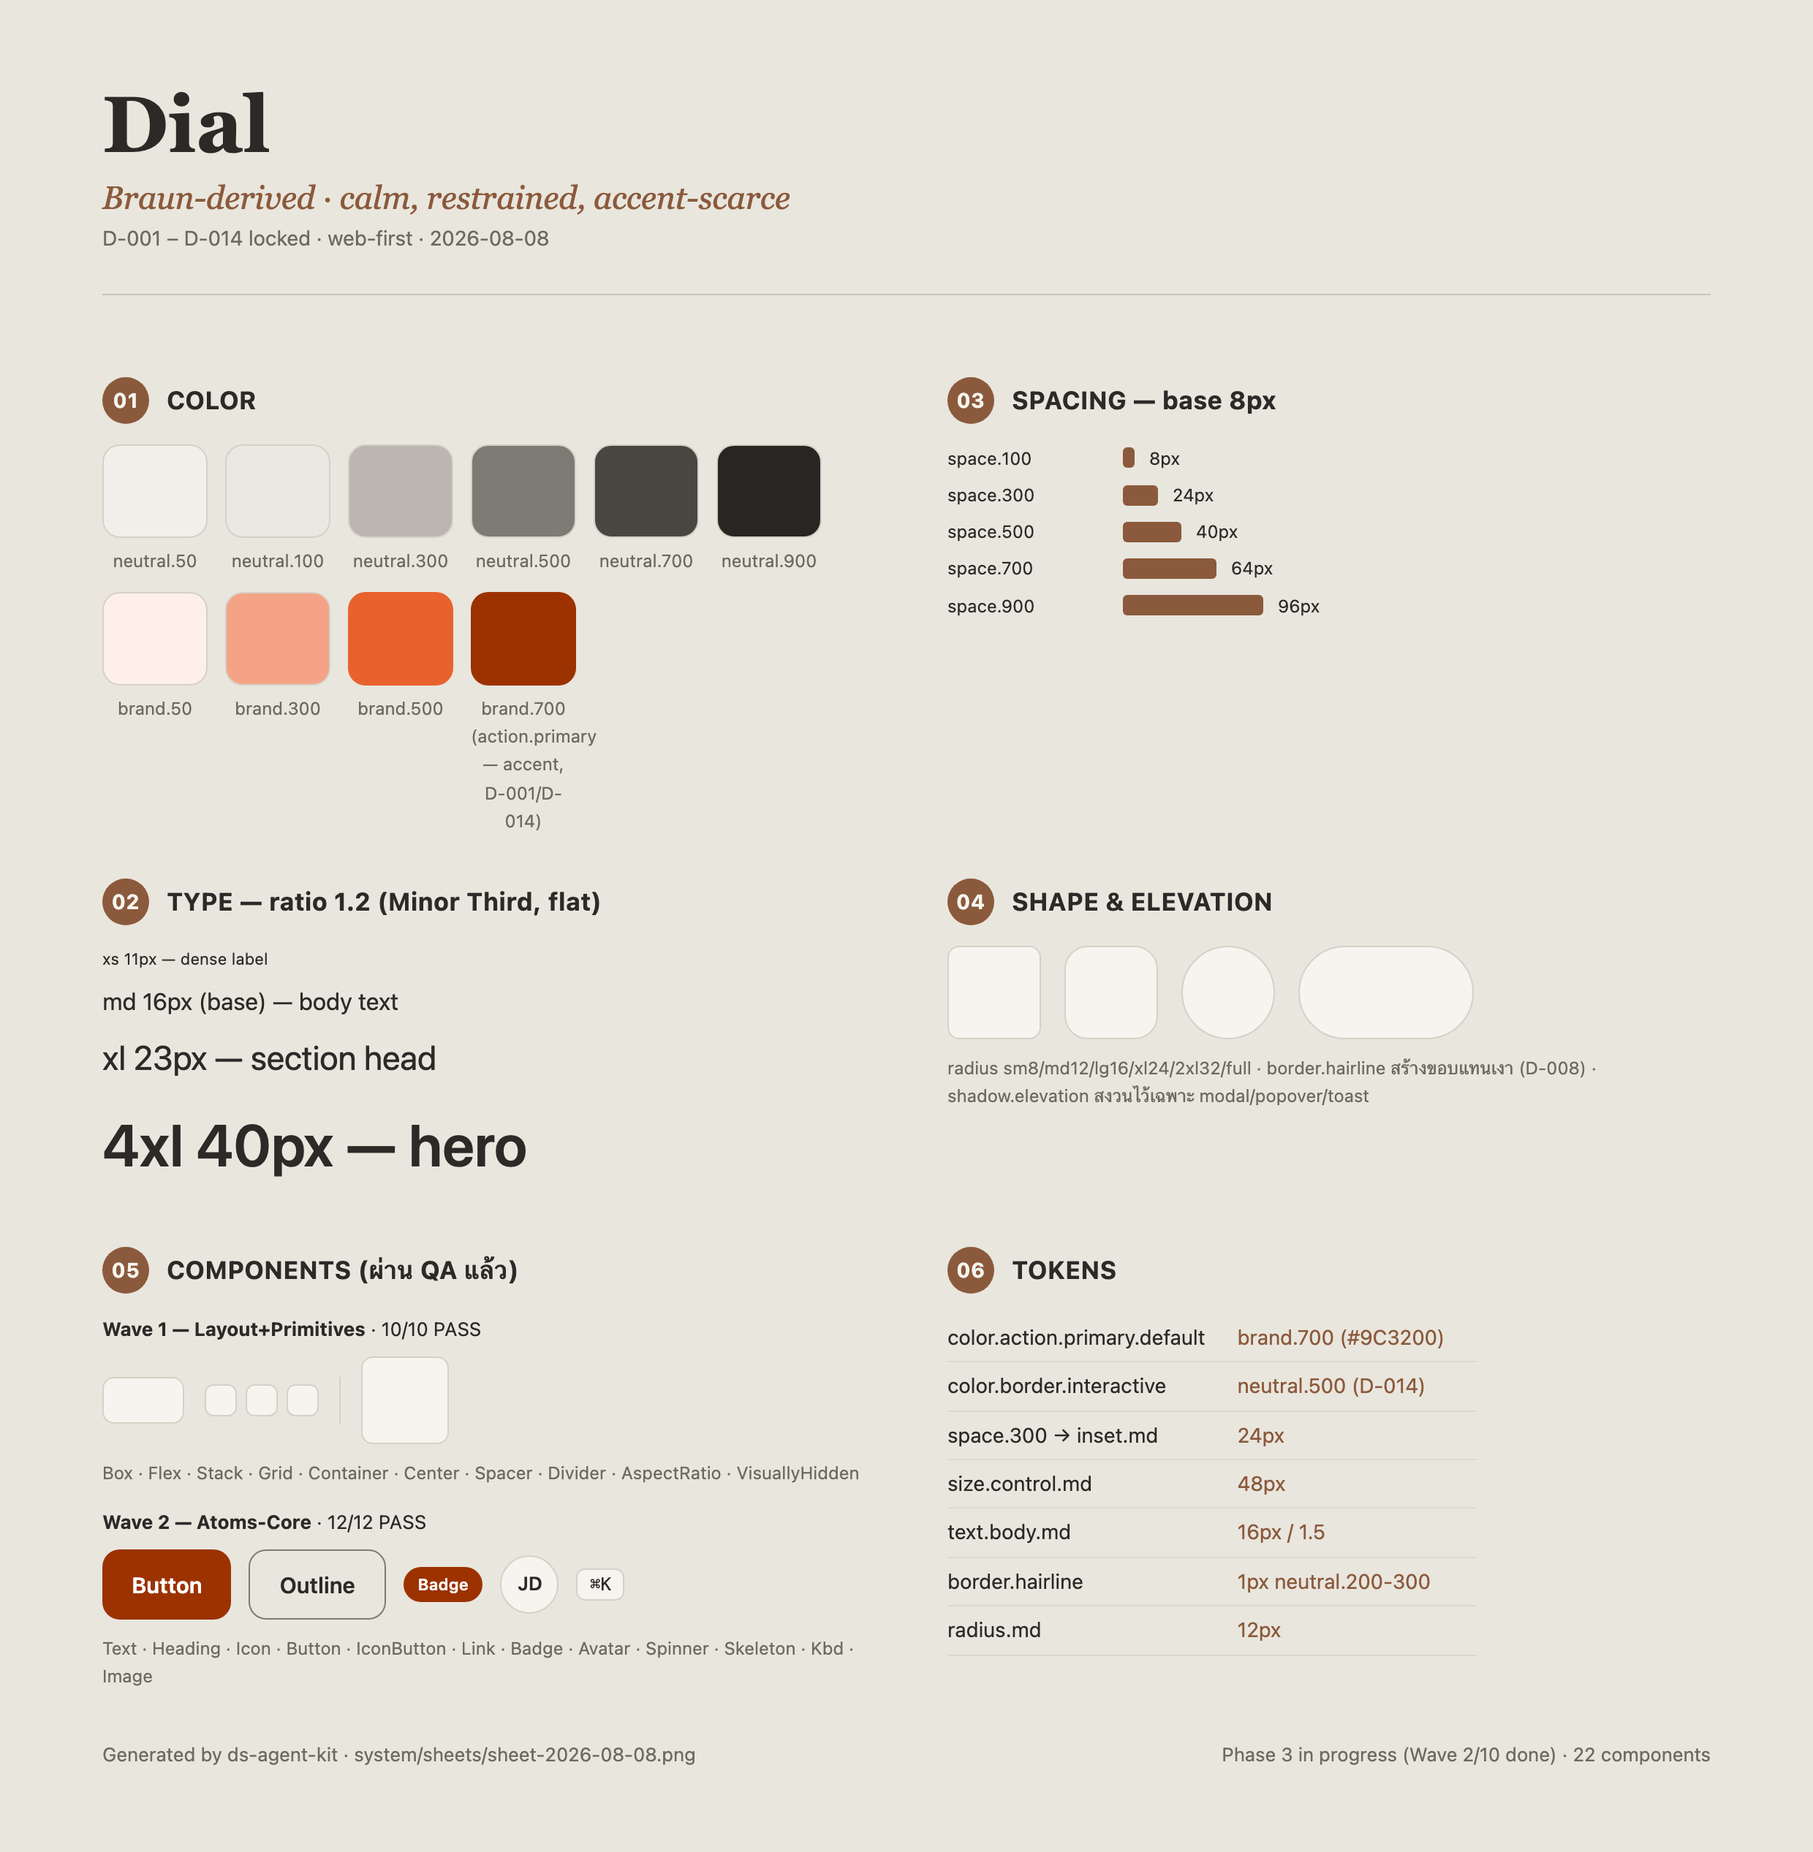
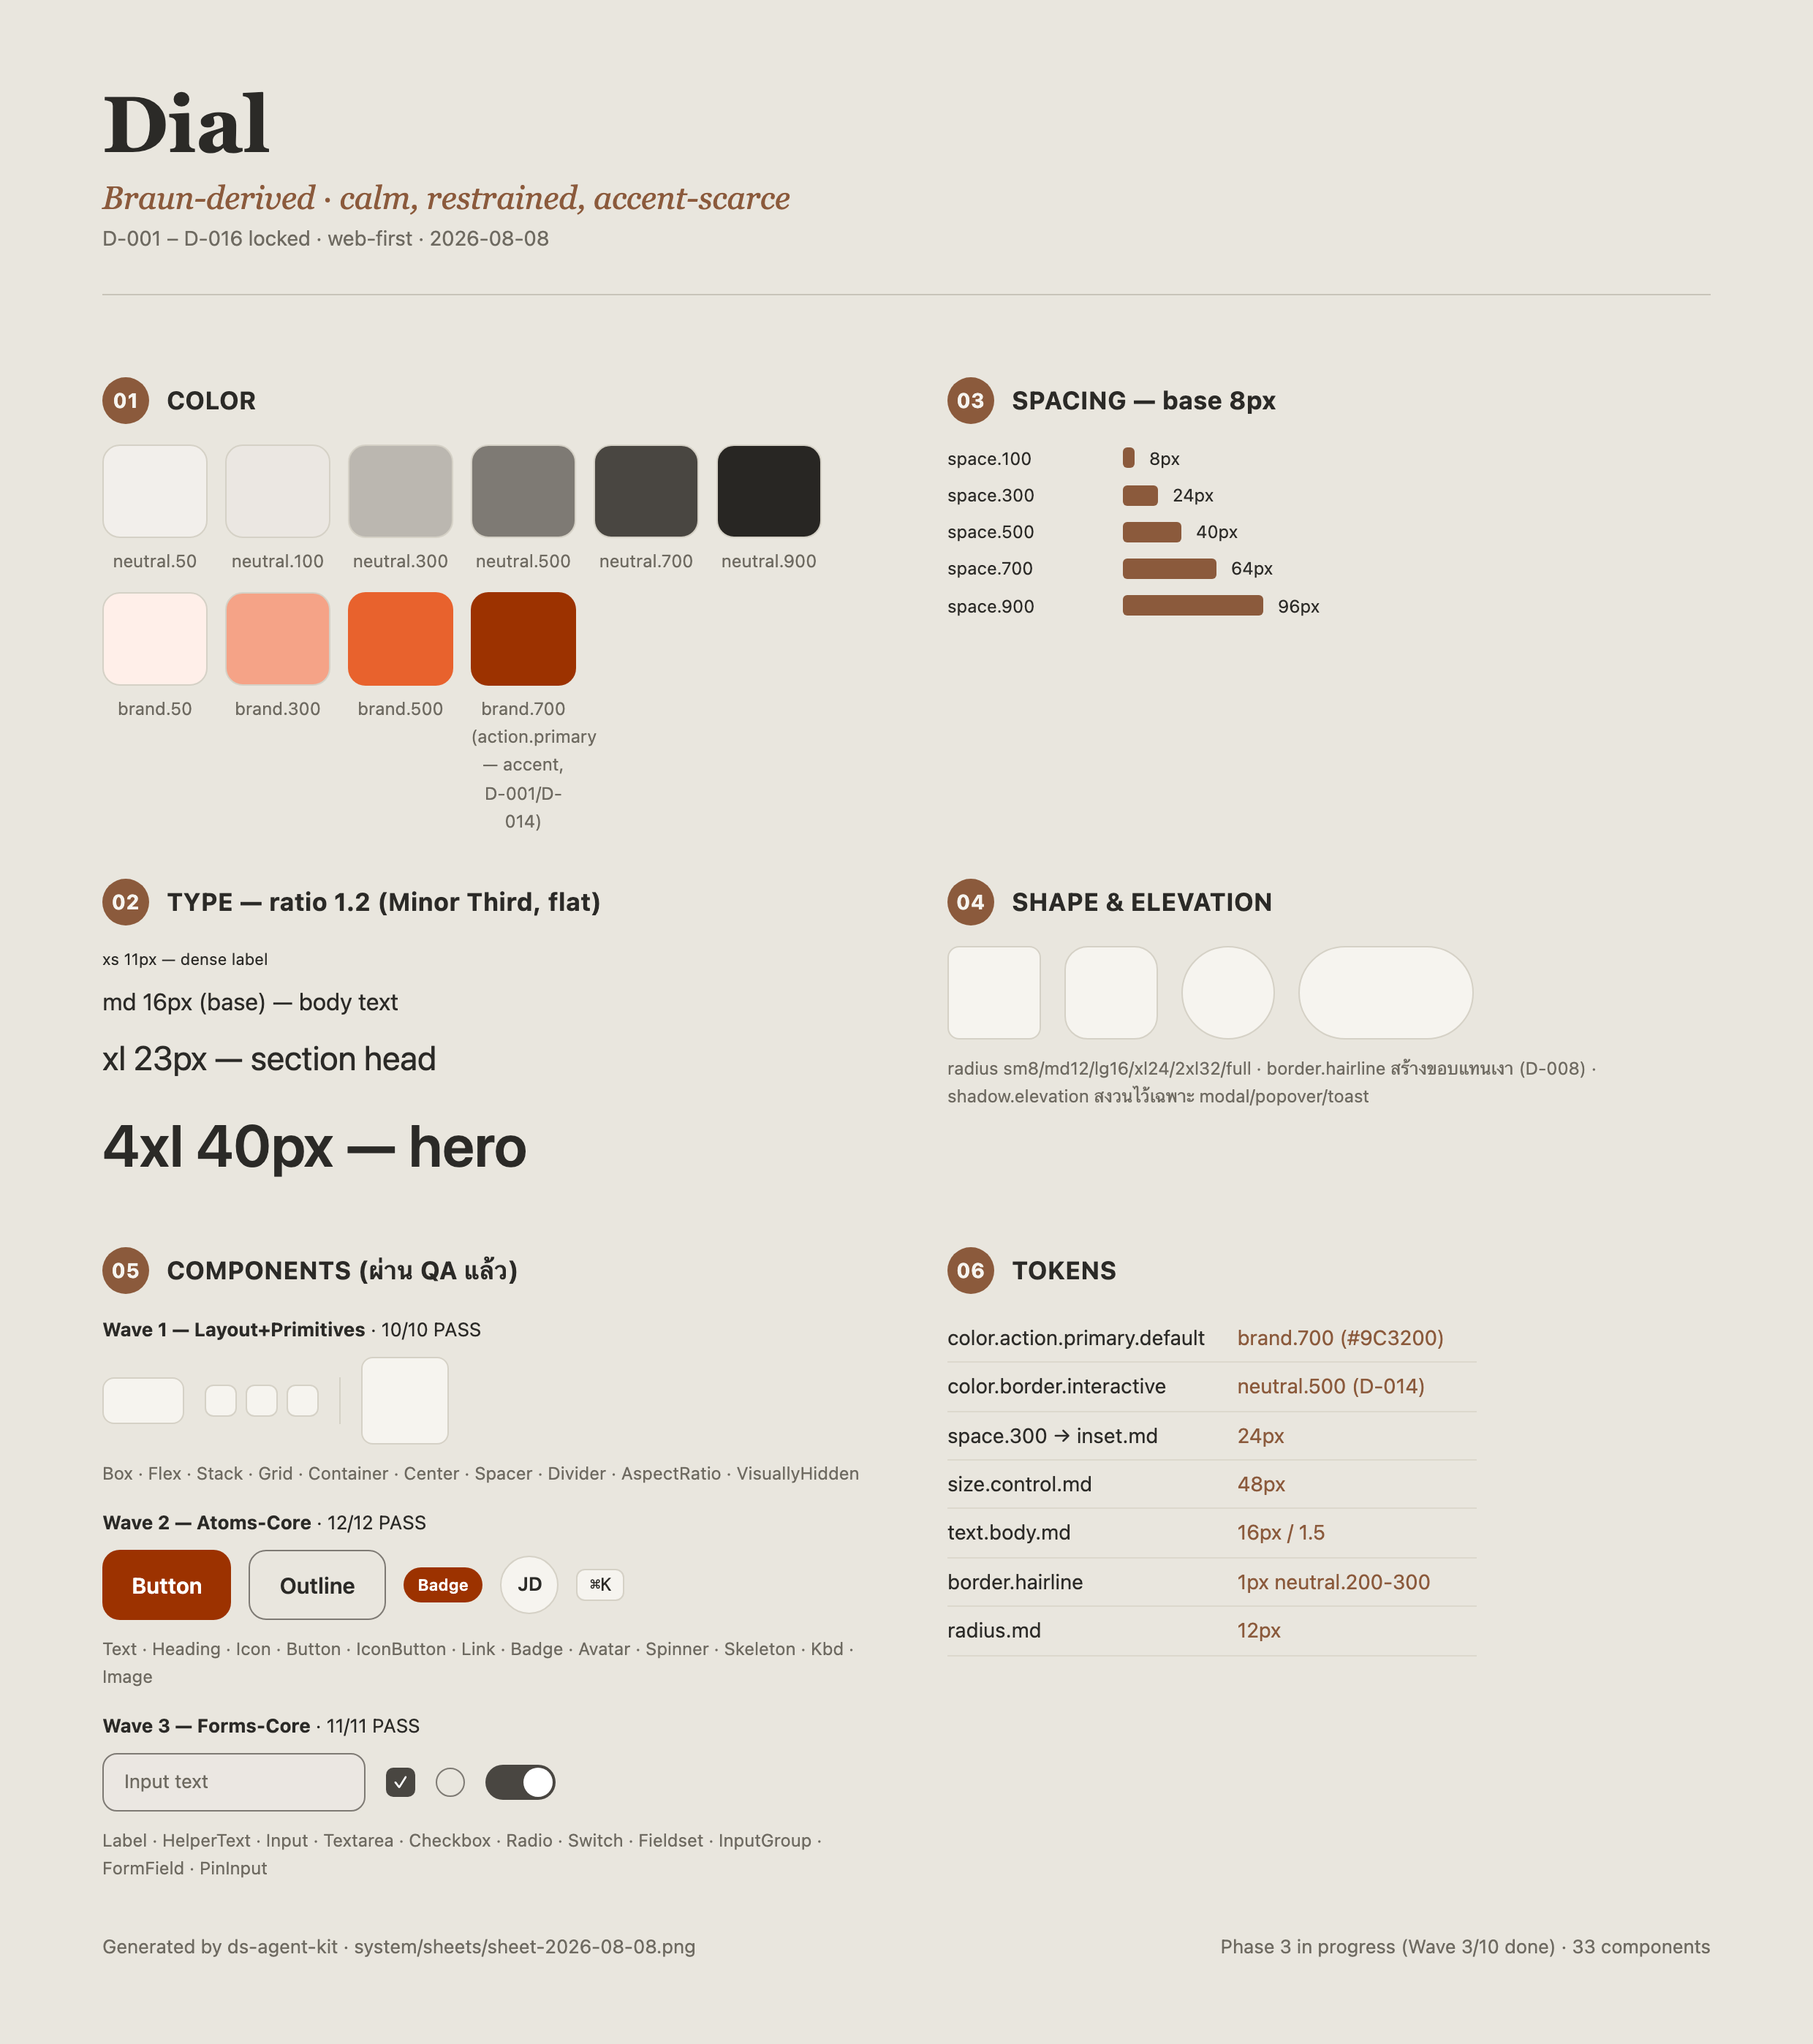
docs: refresh System Sheet with Wave 3 preview, close STATE.md loop
Sheet now shows Wave 3 (Input/Checkbox/Radio/Switch) with the fixed thumb
travel and hit-area visible. Archived Wave 2-only snapshot per no-delete rule.

diff --git a/apps/sheet/template.html b/apps/sheet/template.html
@@ -26,7 +26,7 @@ footer{display:flex;justify-content:space-between;color:var(--sub);font-size:13p
 <!-- AGENT: เติมข้อมูลจริงจาก system/DECISIONS.md + packages/tokens/build เท่านั้น -->
 <h1>Dial</h1>
 <div class="tag">Braun-derived · calm, restrained, accent-scarce</div>
-<div class="meta">D-001 – D-014 locked · web-first · 2026-08-08</div>
+<div class="meta">D-001 – D-016 locked · web-first · 2026-08-08</div>
 <hr>
 <div class="grid">
 <section><h2><i>01</i>COLOR</h2><div class="sw">
@@ -84,7 +84,15 @@ footer{display:flex;justify-content:space-between;color:var(--sub);font-size:13p
   <div style="width:40px;height:40px;border-radius:50%;background:var(--card);border:1px solid #d5d1c6;display:inline-flex;align-items:center;justify-content:center;font-size:13px;font-weight:600">JD</div>
   <kbd style="border:1px solid #d5d1c6;border-radius:6px;padding:3px 8px;font:12px ui-monospace,monospace;background:var(--card)">⌘K</kbd>
 </div>
-<div style="font-size:12px;color:var(--sub)">Text · Heading · Icon · Button · IconButton · Link · Badge · Avatar · Spinner · Skeleton · Kbd · Image</div>
+<div style="font-size:12px;color:var(--sub);margin-bottom:14px">Text · Heading · Icon · Button · IconButton · Link · Badge · Avatar · Spinner · Skeleton · Kbd · Image</div>
+<div style="font-size:13px;margin-bottom:8px"><b>Wave 3 — Forms-Core</b> · 11/11 PASS</div>
+<div style="display:flex;gap:14px;align-items:center;margin-bottom:10px;flex-wrap:wrap">
+  <div style="height:40px;min-inline-size:180px;display:inline-flex;align-items:center;padding-inline:14px;background:#ebe7e2;border:1px solid #7e7a74;border-radius:10px;font-size:13px;color:var(--sub)">Input text</div>
+  <div style="width:20px;height:20px;background:#494641;border-radius:5px;display:inline-flex;align-items:center;justify-content:center;color:#fff;font-size:12px">✓</div>
+  <div style="width:20px;height:20px;border:1px solid #7e7a74;border-radius:50%"></div>
+  <div style="width:48px;height:24px;background:#494641;border-radius:99px;position:relative"><div style="position:absolute;inset-inline-end:2px;top:2px;width:20px;height:20px;background:#fff;border-radius:50%"></div></div>
+</div>
+<div style="font-size:12px;color:var(--sub)">Label · HelperText · Input · Textarea · Checkbox · Radio · Switch · Fieldset · InputGroup · FormField · PinInput</div>
 </section>
 <section><h2><i>06</i>TOKENS</h2><table>
 <tr><td>color.action.primary.default</td><td>brand.700 (#9C3200)</td></tr>
@@ -96,5 +104,5 @@ footer{display:flex;justify-content:space-between;color:var(--sub);font-size:13p
 <tr><td>radius.md</td><td>12px</td></tr>
 </table></section>
 </div>
-<footer><span>Generated by ds-agent-kit · system/sheets/sheet-2026-08-08.png</span><span>Phase 3 in progress (Wave 2/10 done) · 22 components</span></footer>
+<footer><span>Generated by ds-agent-kit · system/sheets/sheet-2026-08-08.png</span><span>Phase 3 in progress (Wave 3/10 done) · 33 components</span></footer>
 </body></html>

diff --git a/system/STATE.md b/system/STATE.md
@@ -2,13 +2,14 @@
 - **System:** Dial (`@dial/tokens`, `@dial/react`)
 - **Phase ปัจจุบัน:** 3 (Layout + Atoms + Forms) — Wave 3 (W3 Forms-Core) ผ่าน QA เต็มรูปแบบ (D-016 แก้ 4 finding รอบเดียว, verify รอบ 2 PASS) → พร้อมเริ่ม WAVE PLAN ของ W4 Mobile-first Overlays
 - **งานล่าสุดที่เสร็จ:** Wave 3 11 ตัว (Label/HelperText/Input/Textarea/Checkbox/Radio/Switch/Fieldset/InputGroup/FormField/PinInput) เขียนโค้ดจริงตาม D-015 (auto-approve + contrast self-check บังคับ) — **ผลลัพธ์: contrast self-check ทำงานได้จริง ไม่มี contrast finding เลยในรอบ QA แรก** (ต่างจาก Wave 2 ที่เจอ 5 finding) แต่เจอ 4 finding คนละมิติแทน (D-016): Switch thumb ไม่เลื่อนจริง (0px travel), Checkbox/Radio/Switch hit-area เล็กกว่า 40px, FormField ไม่มี forwardRef, Radio comment over-claim เรื่อง arrow-key — แก้ครบรอบเดียว verify รอบ 2 PASS (226/226 test, lint/tsc สะอาด)
-- **งานถัดไป:** ปิด WAVE REPORT W3 (commit + tag wave-3 + system-sheet refresh) → เริ่ม WAVE PLAN ของ W4 Mobile-first Overlays (Sheet/BottomSheet, Drawer, Dialog/Modal, ActionSheet, Popover, Tooltip, Toast, Snackbar, FAB, PullToRefresh) — ชื่อ wave นี้เป็น mobile-first แต่ D-002 lock ไว้ว่า platform=web-first แล้ว ต้องพิจารณาว่าจะข้าม mobile-only pattern (ActionSheet/FAB/PullToRefresh) หรือทำแบบ web-adapted ก่อนเริ่ม
-- **System Sheet:** `system/sheets/sheet-2026-08-08.png` (ล่าสุด, มี Wave 1+2 preview — ยังไม่มี Wave 3) · archive: `sheet-2026-08-08-wave1.png`, `sheet-2026-08-08-phase2.png`
-- **Storybook:** ติดตั้งแล้วที่ `apps/storybook/` — เปิดดู interactive ด้วย `pnpm storybook` (dev server localhost:6006) หรือดู static build ที่ `apps/storybook/storybook-static/index.html` (ยังไม่ rebuild หลัง Wave 2-3 — ต้องรัน `pnpm build-storybook` ใหม่ถ้าจะดู static ล่าสุด)
-- **Git:** repo init ที่ root, commits: `ced3223` (wave-1), `010158e` (wave-2), `7045c25`+`aaa7aea` (v14 merge) — tags `wave-1`, `wave-2` — ยังไม่มี remote (local only) — Wave 3 ยังไม่ commit
+- **งานถัดไป:** เริ่ม WAVE PLAN ของ W4 Mobile-first Overlays (Sheet/BottomSheet, Drawer, Dialog/Modal, ActionSheet, Popover, Tooltip, Toast, Snackbar, FAB, PullToRefresh) — ชื่อ wave นี้เป็น mobile-first แต่ D-002 lock ไว้ว่า platform=web-first แล้ว ต้องพิจารณาว่าจะข้าม mobile-only pattern (ActionSheet/FAB/PullToRefresh) หรือทำแบบ web-adapted ก่อนเริ่ม — ควรถาม user ก่อนเริ่มเพราะกระทบ scope ของ wave
+- **System Sheet:** `system/sheets/sheet-2026-08-08.png` (ล่าสุด, มี Wave 1+2+3 preview) · archive: `sheet-2026-08-08-wave1.png`, `sheet-2026-08-08-wave2.png`, `sheet-2026-08-08-phase2.png`
+- **Storybook:** ติดตั้งแล้วที่ `apps/storybook/` — เปิดดู interactive ด้วย `pnpm storybook` (dev server localhost:6006) หรือดู static build ที่ `apps/storybook/storybook-static/index.html` (ยังไม่ rebuild หลัง Wave 2-3 — ต้องรัน `pnpm build-storybook` ใหม่ถ้าจะดู static ล่าสุด, dev server ที่รันอยู่จะ hot-reload อัตโนมัติเพราะ alias ชี้ src ตรง)
+- **Git:** repo init ที่ root, commits: `ced3223`(wave-1), `010158e`(wave-2), `7045c25`+`aaa7aea`(v14 merge), `35e5735`(wave-3) — tags `wave-1`, `wave-2`, `wave-3` — ยังไม่มี remote (local only) — System Sheet refresh ของ wave-3 ยังไม่ commit
 - **Wave ปัจจุบัน:** — (ระหว่าง W3 ปิดกับ W4 เริ่ม) · **Component ผ่าน QA:** 33/33 (Wave 1: 10 layout · Wave 2: 12 atoms · Wave 3: 11 forms — รวม Label/HelperText/Input/Textarea/Checkbox/Radio/Switch/Fieldset/InputGroup/FormField/PinInput)
 - **ค้าง/blocked:** ไม่มี
 ## Log ย่อ (ใหม่สุดบน ≤15 บรรทัด)
+- 2026-08-08 ปิด WAVE REPORT W3: commit 35e5735 + tag wave-3, system-sheet refresh (เพิ่ม Wave 3 preview)
 - 2026-08-08 Wave 3 ผ่าน QA: D-016 แก้ 4 finding (switch travel, hit-area, formfield ref, radio comment) รอบเดียว, contrast self-check (D-015) ป้องกัน contrast finding ได้จริง
 - 2026-08-08 merge v14: Reuse Check + contrast self-check บังคับ + Storybook MCP note (เลือกเฉพาะส่วนที่ไม่ต้อง retrofit React)
 - 2026-08-08 ปิด WAVE REPORT W2: commit 010158e + tag wave-2, system-sheet refresh (เพิ่ม Wave 2 preview), แก้ .gitignore (dist/ หลุดเข้า git)
